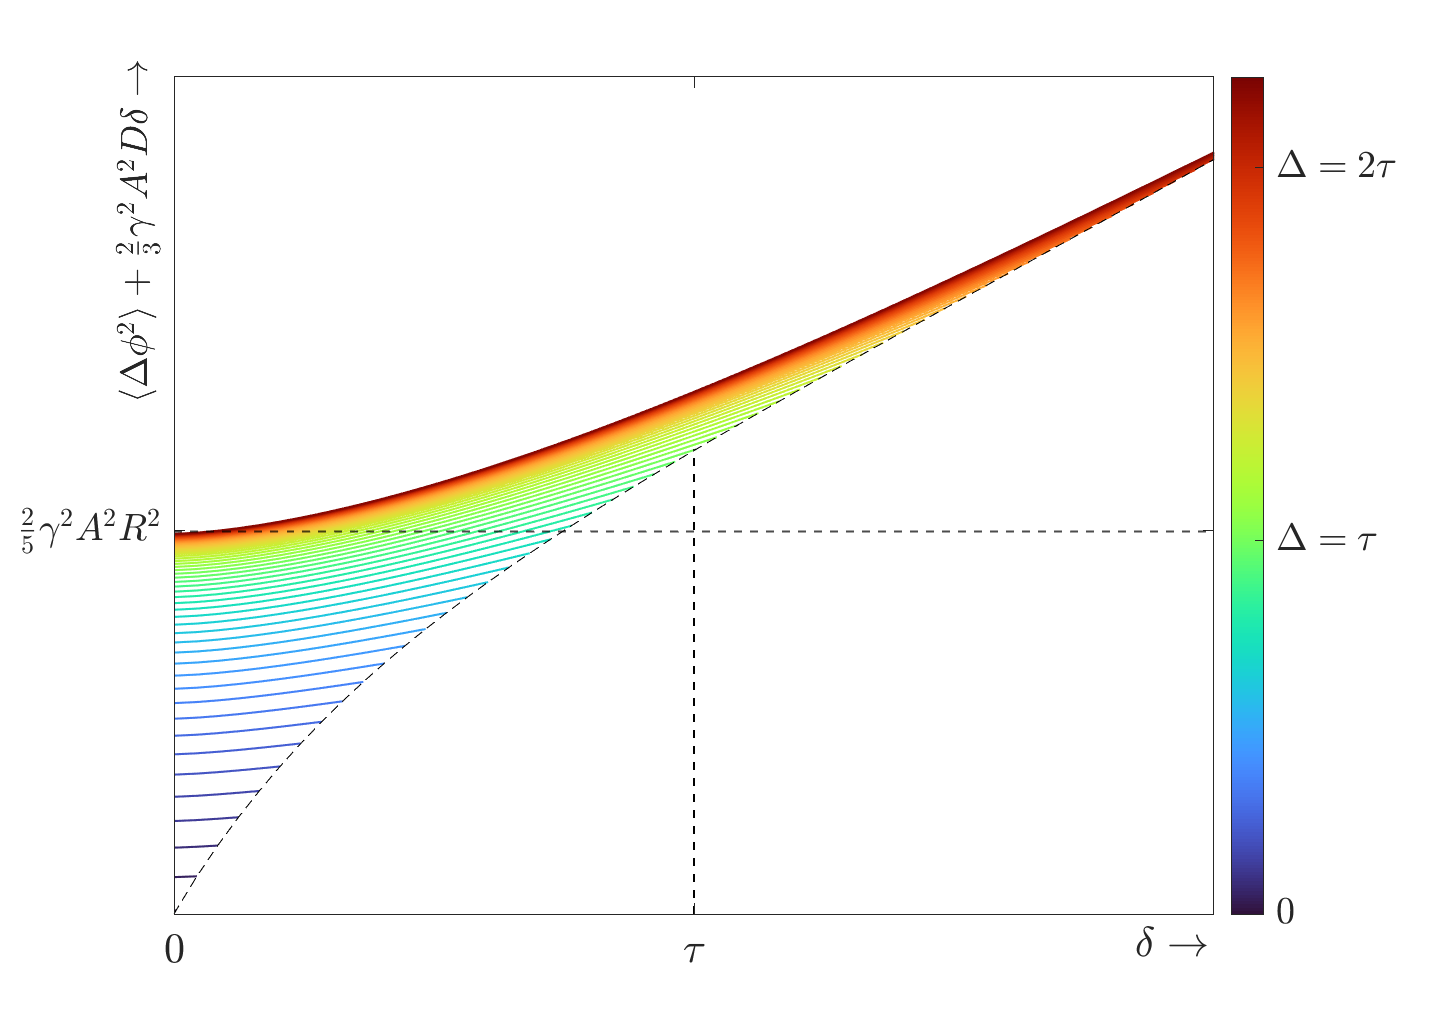
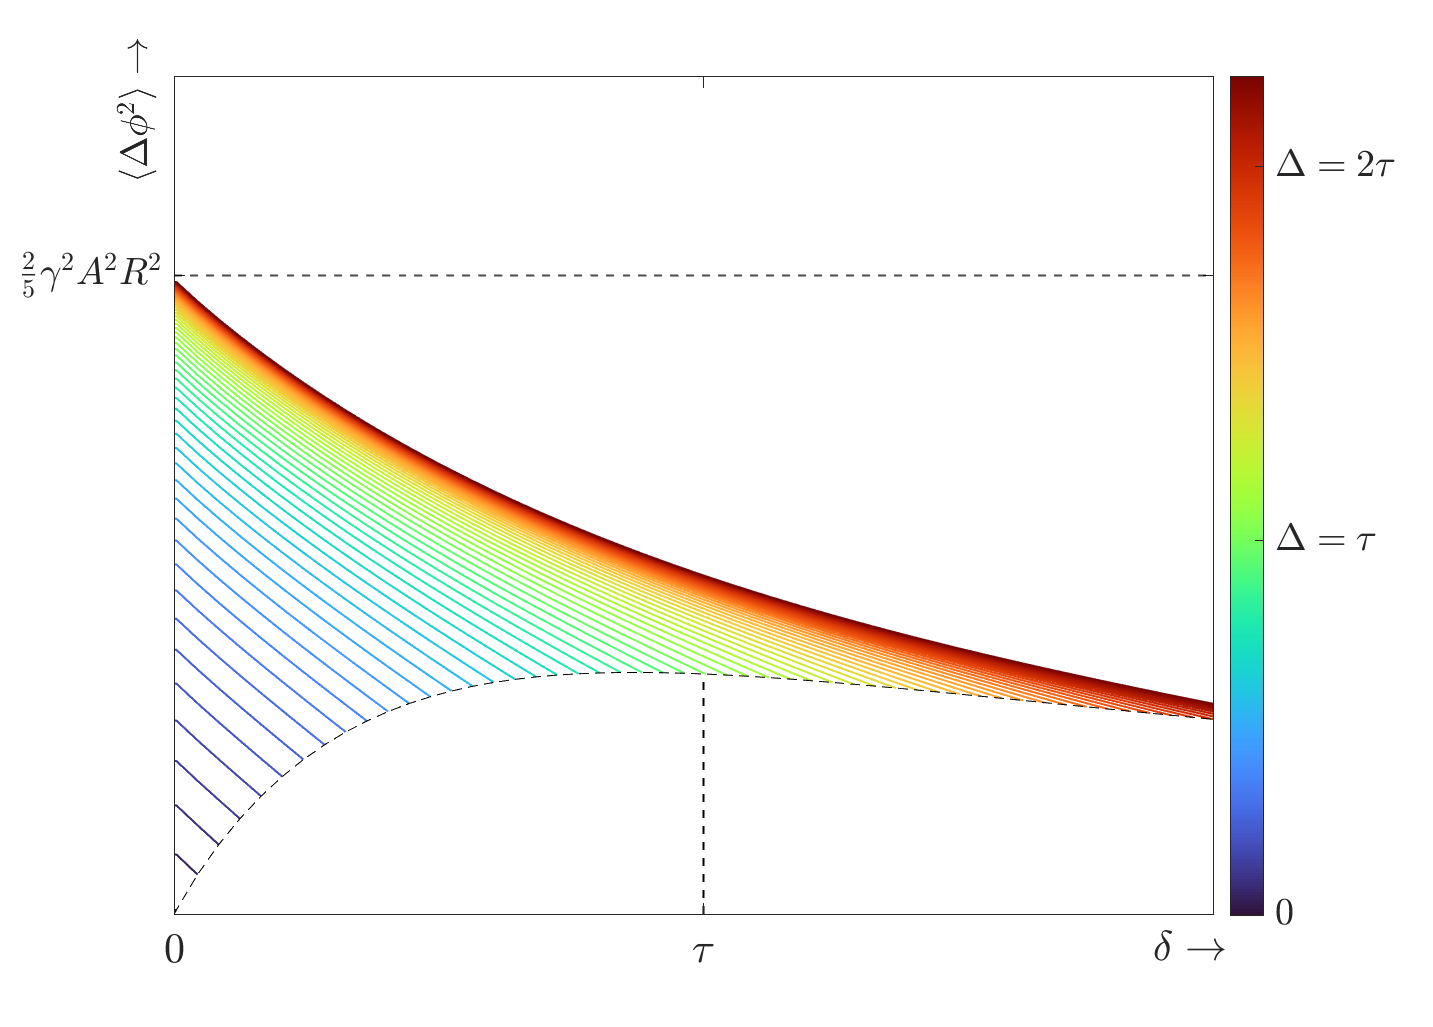
Update.

diff --git a/sphere_diffusion_NEW.m b/sphere_diffusion_NEW.m
@@ -144,6 +144,7 @@ xlabel('$\Delta \rightarrow$', Position=[max(Deltas)-4,-0.004],Interpreter='late
 ylabel('$\langle \Delta\phi^2 \rangle \rightarrow$', Position=[-1 0.144] , Interpreter='latex', FontSize=20)
 
 
+saveas(f1, 'sphere_phase_var_big_DELTA.png')
 
 
 %% Plot as function of delta
@@ -215,6 +216,7 @@ xlabel('$\delta \rightarrow$', Position=[48,-0.002],Interpreter='latex', FontSiz
 ylabel('$\langle \Delta\phi^2 \rangle \rightarrow$', Position=[-0.64 0.144] , Interpreter='latex', FontSize=18)
 
 
+saveas(f2, 'sphere_phase_var_small_delta_1.png')
 
 %% Plot phase variance + linear as function of delta 
 
@@ -287,15 +289,44 @@ xlabel('$\delta \rightarrow$', Position=[48,-0.003],Interpreter='latex', FontSiz
 ylabel('$\langle \Delta\phi^2 \rangle + \frac{2}{3} \gamma^2 A^2 D \delta \rightarrow$', Position=[-0.64 0.204] , Interpreter='latex', FontSize=18)
 
 
+saveas(f3, 'sphere_phase_var_small_delta_2.png')
 
 %% Markers for sequences
 
-seq_deltas = [3.5, 10.5, 23.5, 14, 20, 11, 18];
-seq_Deltas = [26.9, 33.9, 46.9, 37.4, 43.4, 34.4, 41.4];
+R=10;
 
-seq_names = {'Classic b90', 'Classic b500', 'Classic b1500', 'Classic b2000', 'Classic b3000', 'Fast b1000', 'Fast b1800'};
+seq_deltas = ...[2,2,2,2,2,2,2,2,2,2]; 
+            [3.5, 10.5, 23.5, 14, 20, 11, 18];
 
-cols = colororder;
+seq_Deltas = ...[15, 20, 30, 40, 50, 40, 60, 80, 100, 120]; 
+            [26.9, 33.9, 46.9, 37.4, 43.4, 34.4, 41.4];
+
+seq_bvals = ...[1000, 1250, 1500, 1750, 2000, 1000, 1250, 1500, 1750, 2000]; 
+            [90, 500, 1500, 2000, 3000, 1000, 1800];
+
+
+% seq_names = ...{
+%     'Delta 15 b1000',...
+%     'Delta 20 b1250',...
+%     'Delta 30 b1500',...
+%     'Delta 40 b1750',...
+%     'Delta 50 b2000',...
+%     'Delta 40 b1000',...
+%     'Delta 60 b1250',...
+%     'Delta 80 b1500',...
+%     'Delta 100 b1750',...
+%     'Delta 120 b2000',...
+%     };
+
+seq_names =  {'Classic b90',...
+     'Classic b500',...
+     'Classic b1500',...
+     'Classic b2000',...
+     'Classic b3000',...
+     'Fast b1000',...
+     'Fast b1800'};
+
+cols = [colororder; colororder];
 
 f4=figure;
 f4.Position  = [286.6 97 916.8 657.6];
@@ -320,7 +351,8 @@ for seqindx = 1:length(seq_deltas)
     plot([Delta, Delta], [pv_ball, pv_sphere], '-', color = cols(seqindx,:), DisplayName = seq_names{seqindx})
     hold on
     scatter(Delta, pv_ball, '*', MarkerEdgeColor = cols(seqindx,:), DisplayName= 'Gaussian', HandleVisibility='off')
-    scatter(Delta, pv_sphere, 'o', MarkerEdgeColor = cols(seqindx,:), DisplayName= 'Sphere', HandleVisibility='off')
+    scatter(Delta, pv_sphere, 'o', 'filled', ...
+        MarkerFaceColor = cols(seqindx,:), MarkerEdgeColor = cols(seqindx,:), DisplayName= 'Sphere', HandleVisibility='off')
 end
 
 
@@ -344,7 +376,7 @@ yline(phase_var_sat, '--', color = 'k', LineWidth = 1, HandleVisibility='off')
 
 % Phase variance linear growth (delta, Delta << tau)
 plot(Deltas, alpha*(Deltas-deltas(1)/3), '--', color = 'k', LineWidth = 1, HandleVisibility='off')
-text(24, 0.46, '$2 \gamma^2 A^2 D ( \Delta - \frac{\delta}{3})$', Interpreter='latex', FontSize=18)
+text(26.5, 0.47, '$2 \gamma^2 A^2 D ( \Delta - \frac{\delta}{3})$', Interpreter='latex', FontSize=17)
 
 % Axis ticks
 yticks([0, phase_var_sat])
@@ -355,8 +387,116 @@ set(ax4, 'TickLabelInterpreter', 'latex')
 ax4.FontSize = 20;
 ax4.YAxis.FontSize = 18;
 
+legend(NumColumns=1, FontSize=14, Location="northwest", Interpreter='latex')
 
-legend(NumColumns=1, FontSize=12, Location="northwest")
+grid on
 
-xlabel('$\delta \rightarrow$', Position=[56,-0.007],Interpreter='latex', FontSize=20)
+xlabel('$\Delta \rightarrow$', Position=[56,-0.0065],Interpreter='latex', FontSize=20)
 ylabel('$\langle \Delta\phi^2 \rangle \rightarrow$', Position=[-0.64 0.484] , Interpreter='latex', FontSize=18)
+
+saveas(f4, 'phase_var_sequences.png')
+
+
+
+% === Look at signals
+
+f5 = figure;
+f5.Position  = [286.6 97 916.8 657.6];
+ax5 = axes;
+
+
+for seqindx = 1:length(seq_deltas)
+
+    delta = seq_deltas(seqindx);
+    Delta = seq_Deltas(seqindx);
+    bval = seq_bvals(seqindx);
+
+    thisG = stejskal(delta, Delta, bval=bval);
+
+    % sphere phase variance
+    sphere_signal = sphereGPD(delta, Delta, thisG, R, D);
+
+    % Apparent diffusivity
+    sphere_Dapp = (-1/bval)*log(sphere_signal)*1e3;
+
+    % ball phase variance
+    ball_signal = ball(bval, D);
+    ball_Dapp = D;
+
+    plot([Delta, Delta], [ball_signal, sphere_signal], '-', color = cols(seqindx,:), DisplayName = seq_names{seqindx})
+    hold on
+    scatter(Delta, ball_signal, '*', MarkerEdgeColor = cols(seqindx,:), DisplayName= 'Gaussian', HandleVisibility='off')
+    scatter(Delta, sphere_signal, 'o', 'filled', ...
+        MarkerFaceColor = cols(seqindx,:), MarkerEdgeColor = cols(seqindx,:), DisplayName= 'Sphere', HandleVisibility='off')
+
+end
+
+xlim([3*tau/4, (2.25)*tau])
+xticks([0, tau, 2*tau])
+xticklabels({'0', '$\tau$', '$2\tau$'})
+
+ylim([-0.05 1])
+yticks([0 0.25 0.5 0.75 1])
+ylabel('Signal', Interpreter='latex')
+set(ax5, 'TickLabelInterpreter', 'latex')
+ax5.FontSize = 20;
+ax5.YAxis.FontSize = 18;
+
+grid on
+
+legend(Location='southwest', FontSize=14, Interpreter='latex')
+
+xlabel('$\Delta \rightarrow$', Position=[56,-0.065],Interpreter='latex', FontSize=20)
+
+saveas(f5, 'signal_sequences.png')
+
+
+
+
+% == Look at apparent diffusivity of sphere compartment
+
+
+f6 = figure;
+f6.Position  = [286.6 97 916.8 657.6];
+ax6 = axes;
+
+
+for seqindx = 1:length(seq_deltas)
+
+    delta = seq_deltas(seqindx);
+    Delta = seq_Deltas(seqindx);
+    bval = seq_bvals(seqindx);
+
+    thisG = stejskal(delta, Delta, bval=bval);
+
+    % sphere phase variance
+    sphere_signal = sphereGPD(delta, Delta, thisG, R, D);
+
+    % Apparent diffusivity
+    sphere_Dapp = (-1/bval)*log(sphere_signal)*1e3;
+
+    scatter(Delta, sphere_Dapp, 'o', 'filled', ...
+        MarkerFaceColor = cols(seqindx,:), MarkerEdgeColor = cols(seqindx,:), DisplayName = seq_names{seqindx})
+    hold on
+    plot([0 Delta], [sphere_Dapp sphere_Dapp], '--', color = cols(seqindx,:), HandleVisibility='off')
+end
+
+xlim([3*tau/4, (2.25)*tau])
+xticks([0, tau, 2*tau])
+xticklabels({'0', '$\tau$', '$2\tau$'})
+
+ylim([-0.0 2])
+yticks([0 0.2 0.4 0.6 0.8 1 1.5 2])
+
+ylabel('Sphere apparent diffusivity ($\times 10^{-3}$ mm$^2$/s)', Interpreter='latex')
+set(ax6, 'TickLabelInterpreter', 'latex')
+ax6.FontSize = 20;
+ax6.YAxis.FontSize = 16;
+
+grid on
+
+legend(Location='northeast', FontSize=14, Interpreter='latex')
+
+xlabel('$\Delta \rightarrow$', Position=[56,-0.03],Interpreter='latex', FontSize=20)
+
+saveas(f6, 'Dapp_sequences.png')

diff --git a/Gaussian_diffusion.m b/Gaussian_diffusion.m
@@ -1,0 +1,44 @@
+% Make figure for Gaussian diffusion
+
+
+D=2;
+times = [0, 1, 2, 4, 6, 8, 10];
+
+xmax = 20;
+xs = -xmax:xmax/100:xmax;
+dx = xs(2)-xs(1);
+
+f=figure;
+ax = axes;
+
+for tindx = 1:length(times)
+
+    t = times(tindx);
+
+    if t==0
+        xline(0, DisplayName=['t=' num2str(t) 'ms'], LineWidth=1.1);
+        hold on
+        continue
+    end
+
+    sigma = sqrt(2*D*t);
+
+    dist = normpdf(xs, 0, sigma);
+
+    plot(xs, dx*dist, DisplayName=['t=' num2str(t) 'ms'], LineWidth=1.1);
+
+end
+
+legend(Interpreter='latex', FontSize=11);
+
+
+ylim([0 0.05])
+xlim([-xmax, xmax])
+title(['$D =$ ' num2str(D) ' $\mu$m$^2$/ms'], Interpreter='latex', FontSize=14)
+xlabel('$x$ ($\mu$m)', Interpreter='latex', FontSize=14)
+yticks([0:0.01:0.05])
+ylabel(['$P(x)$ ($\mu$m$^{-1}$)' ], Interpreter='latex', FontSize=14)
+
+saveas(f, 'Gaussian_diffusion_profiles.png')
+
+
